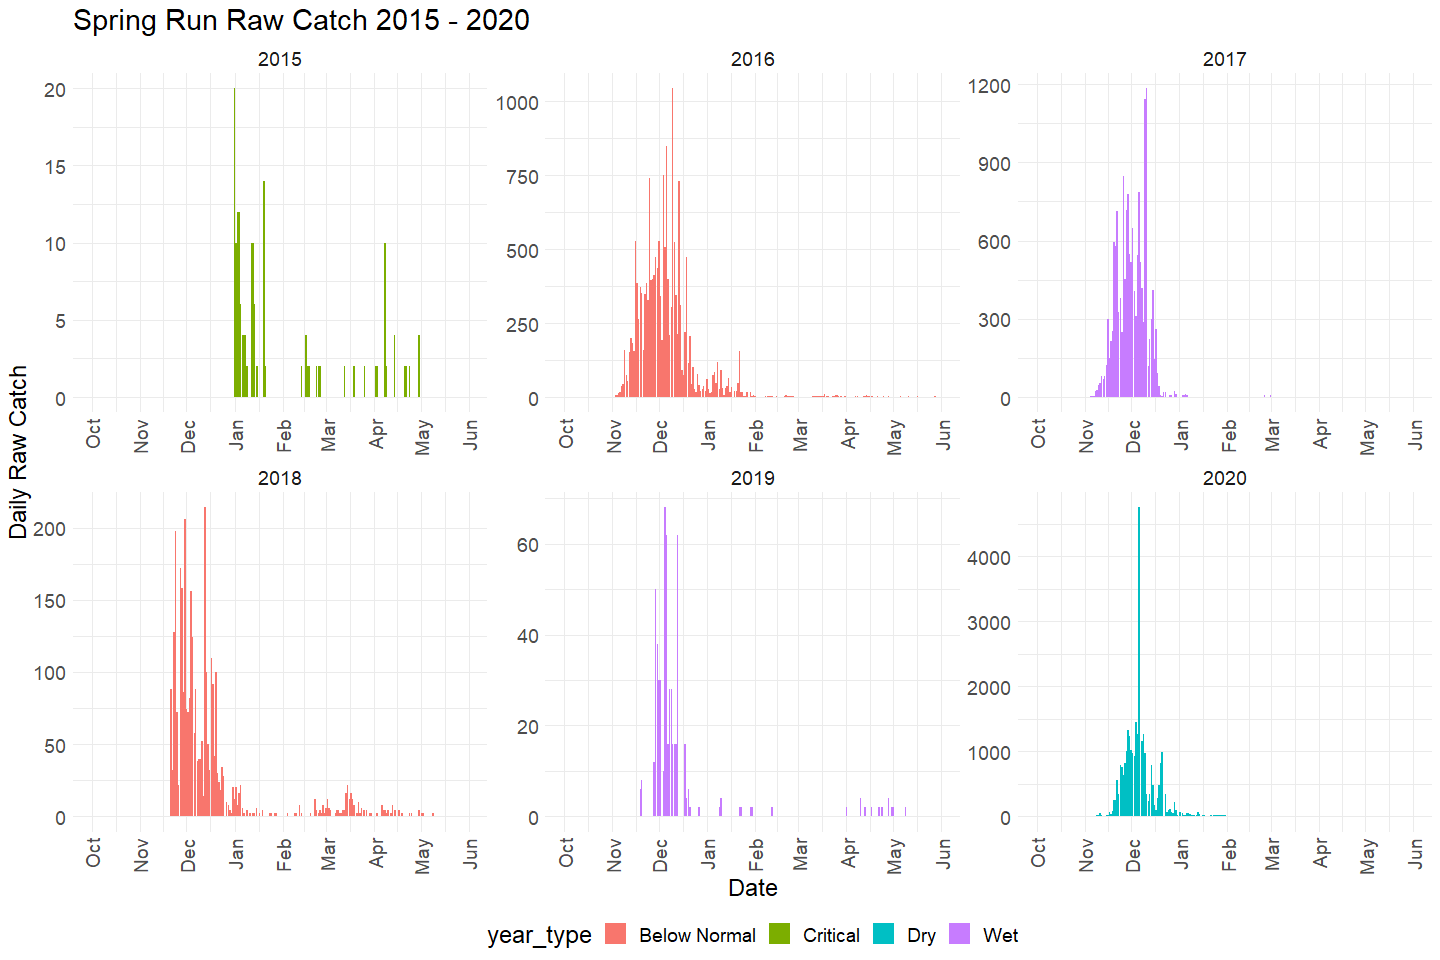
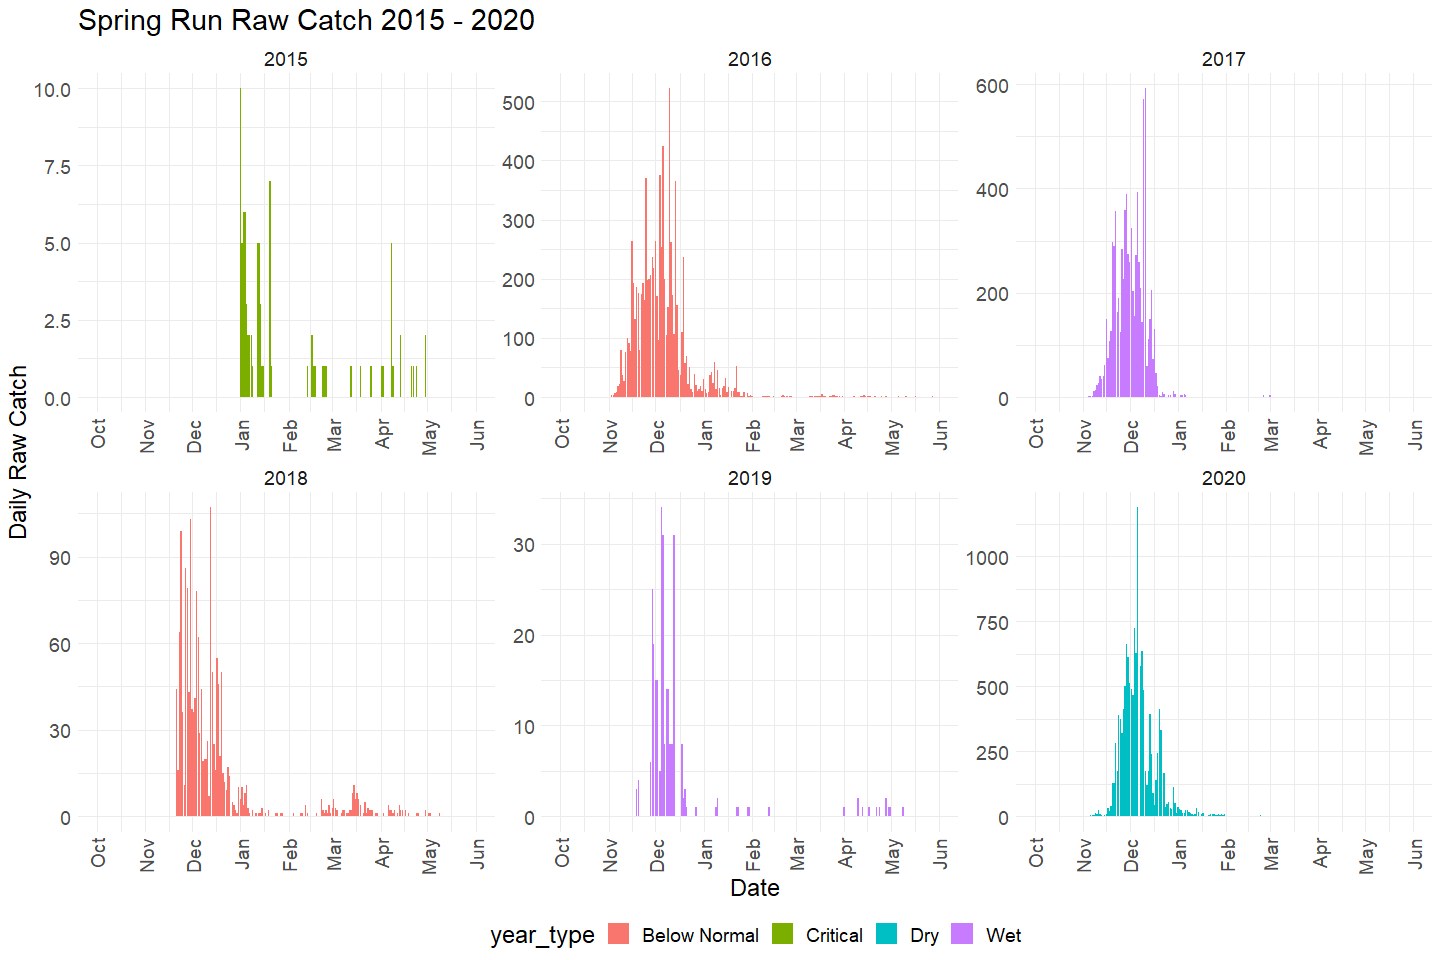
edits plots for clear creek passage estimates

diff --git a/scripts/rst/clear-creek/clear_creek_passage_estimates_qc.md b/scripts/rst/clear-creek/clear_creek_passage_estimates_qc.md
@@ -133,6 +133,8 @@ Note shows one daily catch value for both traps.
 
 ``` r
 cleaner_passage_estimate %>% 
+  group_by(date) %>%
+  summarise(total_daily_catch = sum(catch)) %>%
   filter(year(date) > 2014, year(date) < 2021) %>%
   mutate(water_year = ifelse(month(date) %in% 10:12, year(date) + 1, year(date))) %>% 
   left_join(sac_indices) %>%
@@ -140,9 +142,6 @@ cleaner_passage_estimate %>%
          fake_year = if_else(month(date) %in% 10:12, 1900, 1901),
          fake_date = as.Date(paste0(fake_year,"-", month(date), "-", day(date)))) %>%
   filter(water_year < 2021) %>%
-  group_by(date) %>%
-  mutate(total_daily_catch = sum(catch)) %>%
-  ungroup() %>%
   ggplot(aes(x = fake_date, y = total_daily_catch, fill = year_type)) + 
   geom_col() + 
   scale_x_date(labels = date_format("%b"), limits = c(as.Date("1900-10-01"), as.Date("1901-06-01")), date_breaks = "1 month") + 
@@ -163,10 +162,9 @@ cleaner_passage_estimate %>%
 
 ``` r
 cleaner_passage_estimate  %>%
-  group_by(year(date), location) %>%
-  mutate(total_yearly_catch = sum(catch, na.rm = T)) %>%
-  ungroup() %>%
-  mutate(year = as.factor(year(date))) %>%
+  group_by(year = year(date), location) %>%
+  summarise(total_yearly_catch = sum(catch, na.rm = T)) %>%
+  mutate(year = as.factor(year)) %>%
   ggplot(aes(x = year, y = total_yearly_catch, fill = location)) + 
   geom_col(position = "dodge") + 
   theme_minimal() +
@@ -175,6 +173,8 @@ cleaner_passage_estimate  %>%
   theme(text = element_text(size = 18),
         axis.text.x = element_text(angle = 90, vjust = 0.5, hjust=1)) 
 ```
+
+    ## `summarise()` has grouped output by 'year'. You can override using the `.groups` argument.
 
 ![](clear_creek_passage_estimates_qc_files/figure-gfm/unnamed-chunk-8-1.png)<!-- -->
 
@@ -236,6 +236,8 @@ caught.
 
 ``` r
 cleaner_passage_estimate %>% 
+  group_by(date) %>%
+  summarise(total_daily_catch = sum(passage_estimate)) %>%
   filter(year(date) > 2014, year(date) < 2021) %>%
   mutate(water_year = ifelse(month(date) %in% 10:12, year(date) + 1, year(date))) %>% 
   left_join(sac_indices) %>%
@@ -243,9 +245,6 @@ cleaner_passage_estimate %>%
          fake_year = if_else(month(date) %in% 10:12, 1900, 1901),
          fake_date = as.Date(paste0(fake_year,"-", month(date), "-", day(date)))) %>%
   filter(water_year < 2021) %>%
-  group_by(date) %>%
-  mutate(total_daily_catch = sum(passage_estimate)) %>%
-  ungroup() %>%
   ggplot(aes(x = fake_date, y = total_daily_catch, fill = year_type)) + 
   geom_col() + 
   scale_x_date(labels = date_format("%b"), limits = c(as.Date("1900-10-01"), as.Date("1901-06-01")), date_breaks = "1 month") + 
@@ -266,10 +265,9 @@ cleaner_passage_estimate %>%
 
 ``` r
 cleaner_passage_estimate  %>%
-  group_by(year(date), location) %>%
-  mutate(total_yearly_catch = sum(passage_estimate, na.rm = T)) %>%
-  ungroup() %>%
-  mutate(year = as.factor(year(date))) %>%
+  group_by(year = year(date), location) %>%
+  summarise(total_yearly_catch = sum(passage_estimate, na.rm = T)) %>%
+  mutate(year = as.factor(year)) %>%
   ggplot(aes(x = year, y = total_yearly_catch, fill = location)) + 
   geom_col(position = 'dodge') + 
   theme_minimal() +
@@ -278,6 +276,8 @@ cleaner_passage_estimate  %>%
   theme(text = element_text(size = 18),
         axis.text.x = element_text(angle = 90, vjust = 0.5, hjust=1)) 
 ```
+
+    ## `summarise()` has grouped output by 'year'. You can override using the `.groups` argument.
 
 ![](clear_creek_passage_estimates_qc_files/figure-gfm/unnamed-chunk-14-1.png)<!-- -->
 
